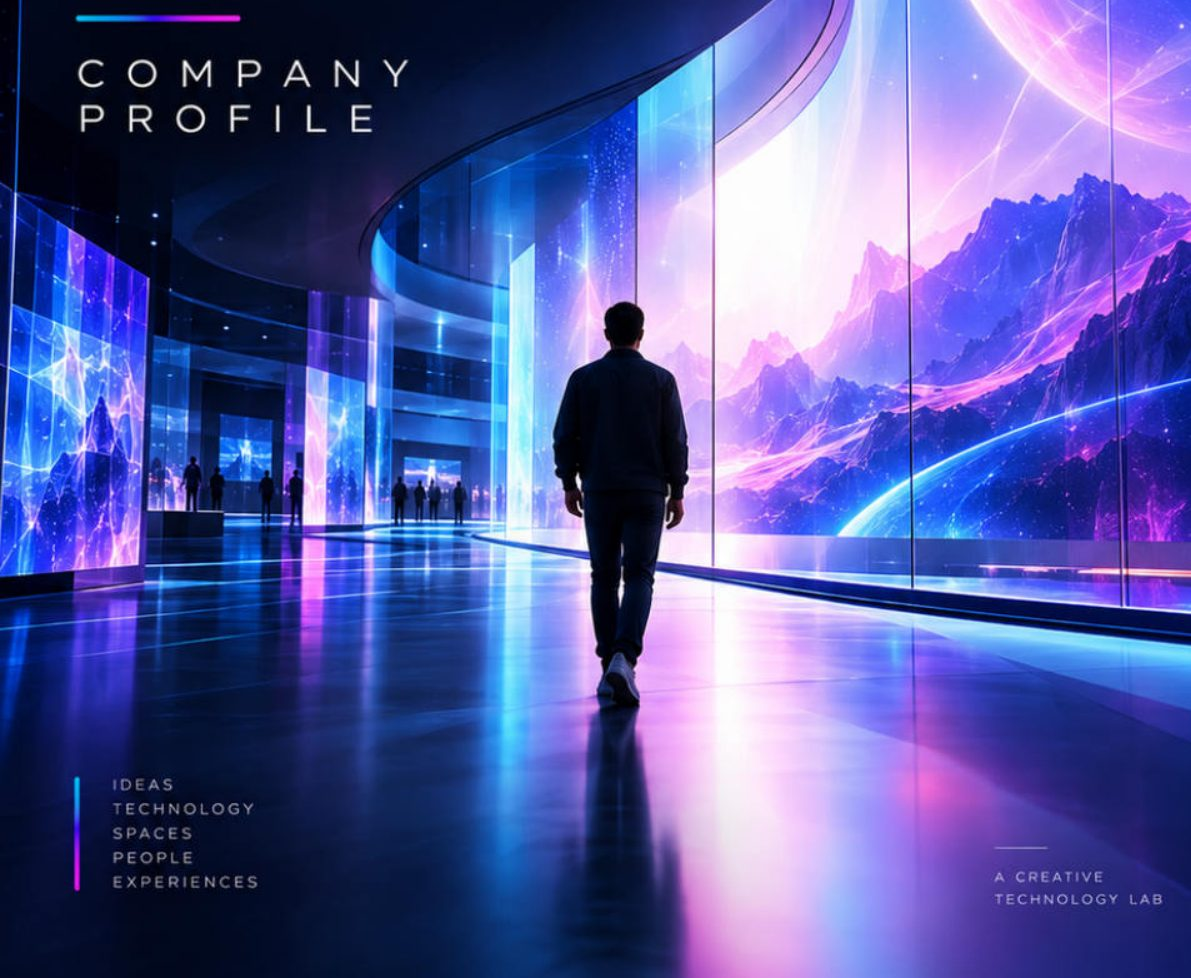
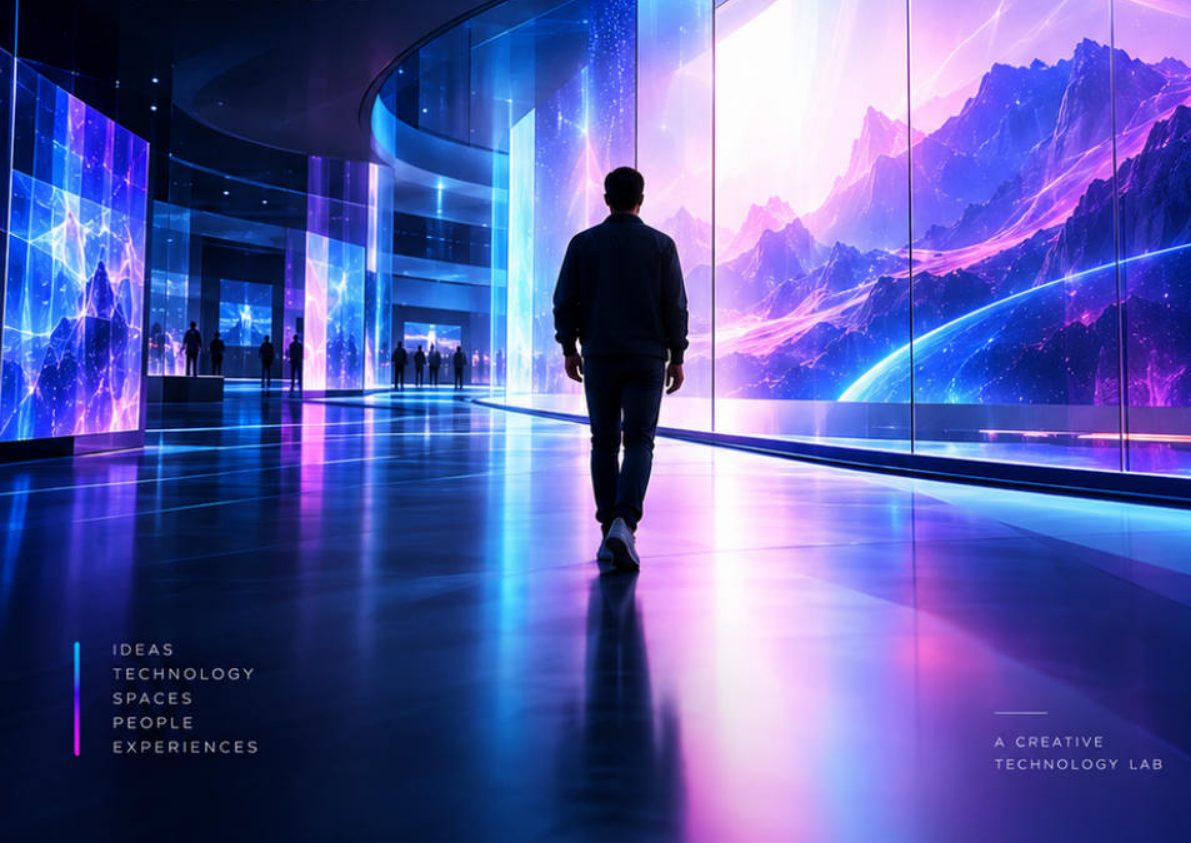
Apply client WhatsApp revisions (roadmap + service lists)

diff --git a/src/data/collection.ts b/src/data/collection.ts
@@ -22,7 +22,7 @@ export const collectionItems: CollectionItem[] = [
     tagline: "Turn any surface into a story.",
     description: "Mengubah ruang, bangunan, object, stage, maupun permukaan apa pun jadi medium visual storytelling yang imersif dan interaktif.",
     icon: "projector",
-    highlights: ["Projection mapping", "Immersive projection", "Interactive projection", "AV performance"],
+    highlights: ["Projection mapping", "Immersive", "Interactive projection", "AV performance"],
   },
   {
     no: "02",
@@ -30,7 +30,7 @@ export const collectionItems: CollectionItem[] = [
     tagline: "More than a screen.",
     description: "Digital signage, interactive kiosk, LED display, hingga Holobox — platform visual yang mengajak audience masuk dan berinteraksi.",
     icon: "monitor",
-    highlights: ["Digital signage", "Interactive kiosk", "LED display", "Holobox"],
+    highlights: ["Digital signage", "Interactive kiosk", "Immersive & interactive display", "LED displays", "Holobox", "Interactive content"],
   },
   {
     no: "03",
@@ -38,7 +38,7 @@ export const collectionItems: CollectionItem[] = [
     tagline: "Don't just watch. Play.",
     description: "Holo-Wall interactive games, gesture-based Holo-X, hingga simulation experience — audience jadi bagian dari pengalamannya.",
     icon: "gamepad",
-    highlights: ["Holo-Wall games", "Holo-X gesture", "Simulation experience"],
+    highlights: ["Holo-wall interactive games", "Holo-x gesture games", "Educational games", "Simulation experiences", "Custom games & activations"],
   },
   {
     no: "04",
@@ -46,7 +46,7 @@ export const collectionItems: CollectionItem[] = [
     tagline: "Intelligence that works with you.",
     description: "Doocoon AI — 3D avatar virtual assistant yang bisa diajak bicara dan merespons langsung, plus AI photobooth untuk momen personal.",
     icon: "bot",
-    highlights: ["3D AI avatar", "AI photobooth", "Agentic AI"],
+    highlights: ["AI photobooth", "Agentic AI admin", "Agentic AI finance", "Agentic AI legal compliance", "Agentic AI marketing", "Agentic AI customer support"],
   },
   {
     no: "05",
@@ -54,30 +54,30 @@ export const collectionItems: CollectionItem[] = [
     tagline: "Step into another reality.",
     description: "VR games dan VR experience dalam virtual environment penuh, untuk entertainment maupun eksplorasi dunia lain.",
     icon: "glasses",
-    highlights: ["VR games", "VR experience", "Virtual environment"],
+    highlights: ["VR games", "VR experience", "VR for education"],
   },
   {
     no: "06",
-    title: "3D Printing & Custom",
+    title: "3D Printing Custom",
     tagline: "From digital idea to physical form.",
     description: "Dari dunia digital kembali ke dunia fisik — custom 3D design yang dicetak jadi karya nyata untuk dibawa pulang.",
     icon: "printer",
-    highlights: ["3D printed object", "Custom design", "Digital fabrication"],
+    highlights: ["Shoes 3D printing", "Action figure", "Custom 3D design"],
   },
   {
     no: "07",
-    title: "Smart Home & Office",
+    title: "Smart Home / Office Solutions",
     tagline: "From smart space to intelligent space.",
     description: "AI avatar sebagai interface rumah dan kantor pintar — dari conventional living menuju connected, intelligent living.",
     icon: "home",
-    highlights: ["Smart home AI avatar", "Smart office AI avatar", "Connected living"],
+    highlights: ["Smart home AI avatar", "Smart office AI avatar"],
   },
   {
     no: "08",
-    title: "DJ / VJ Audio Reactive",
+    title: "DJ / VJ Audio Reactive with Visuals",
     tagline: "See the music. Feel the visual.",
     description: "Musik jadi trigger bagi visual — DJ performance dengan projection, lighting, dan interactive content yang merespons real-time.",
     icon: "disc",
-    highlights: ["DJ performance", "Audio reactive visual", "Live interaction"],
+    highlights: ["DJ music performance", "Audio reactive interactive performance"],
   },
 ];

diff --git a/src/data/journey.ts b/src/data/journey.ts
@@ -1,9 +1,8 @@
 /**
- * The show timeline, matching the Experience Journey on the Hololabs company
- * profile (hololabs-web): six stages, ~90 minutes end to end. Supersedes the
- * earlier 7-step list from the client's WhatsApp revision (7 Oct 2026),
- * whose first step — booking — happens before the show and now lives in
- * the "Alurnya" section instead.
+ * The show roadmap, per the client's WhatsApp "Road map Milestone"
+ * (Badar Spero, Oct 2026): seven stages, 1,5 jam per show. The client gave
+ * no per-stage durations, so `minutes` stays empty and the timeline simply
+ * omits the duration pill.
  */
 export interface JourneyStep {
   title: string;
@@ -14,41 +13,47 @@ export interface JourneyStep {
 
 export const journeySteps: JourneyStep[] = [
   {
-    title: "Enter the Story",
-    subtitle: "Journey of Life — Immersive Video Mapping",
-    minutes: "15",
-    description: "Experience dimulai melalui immersive video mapping yang membawa audience mengikuti sebuah visual story.",
+    title: "Booking seat",
+    subtitle: "Reservasi sebelum datang",
+    minutes: "",
+    description: "Pilih jadwal show, reservasi seat, dan bersiap memasuki Hololabs.",
   },
   {
-    title: "Feel the Beat",
-    subtitle: "Interactive DJ & Audio Reactive Performance",
-    minutes: "15",
-    description: "Musik menjadi trigger bagi visual. Audience tidak hanya menonton, mereka menjadi bagian dari performance.",
+    title: "Nonton video mapping",
+    subtitle: "Journey of Life",
+    minutes: "",
+    description: "Menonton video mapping yang bercerita tentang journey of life — visual, projection, dan audio jadi satu opening experience.",
   },
   {
-    title: "Meet AI",
-    subtitle: "Doocoon AI — 3D Avatar Virtual Assistant",
-    minutes: "15",
-    description: "Pengunjung dapat berbicara langsung dengan 3D Avatar Virtual Assistant yang merespons audience.",
+    title: "Interactive performance",
+    subtitle: "With DJ backsound",
+    minutes: "",
+    description: "Pertunjukan interaktif dengan iringan DJ — audience tidak hanya menonton, mereka jadi bagian dari performance.",
   },
   {
-    title: "Road to Smart Living",
-    subtitle: "Smart Home Technology Experience",
-    minutes: "20",
-    description: "Menjelajahi perkembangan teknologi rumah dari conventional living menuju connected dan intelligent living.",
+    title: "Chit chat dengan AI",
+    subtitle: "3D Avatar Virtual Assistant — Doocoon AI",
+    minutes: "",
+    description: "Ngobrol langsung dengan Doocoon AI, 3D avatar virtual assistant yang bisa berkomunikasi dan merespons audience.",
   },
   {
-    title: "Create Something",
-    subtitle: "Custom 3D Printing Experience",
-    minutes: "15",
-    description: "Dari dunia digital kembali ke dunia fisik. Ide digital berubah menjadi benda nyata.",
+    title: "Road to smart home technology",
+    subtitle: "Smart home experience",
+    minutes: "",
+    description: "Menjelajahi perjalanan teknologi rumah dari conventional living menuju connected dan intelligent living.",
   },
   {
-    title: "Closing",
-    subtitle: "Take the Experience Home",
-    minutes: "10",
-    description: "Go home with a new possibility.",
+    title: "Custom 3D printing",
+    subtitle: "From digital idea to physical form",
+    minutes: "",
+    description: "Dari dunia digital kembali ke dunia fisik — lihat ide jadi benda nyata lewat custom 3D printing.",
+  },
+  {
+    title: "Pulang",
+    subtitle: "Take the experience home",
+    minutes: "",
+    description: "Show selesai — pulang membawa pengalaman 1,5 jam dan kemungkinan baru.",
   },
 ];
 
-export const journeyDurationLabel = "±90 menit per show";
+export const journeyDurationLabel = "1,5 jam per show";

diff --git a/src/lib/cms/schema.ts b/src/lib/cms/schema.ts
@@ -207,7 +207,7 @@ export const defaults = {
     title: "Don't just see the technology.",
     titleAccent: "Step inside it.",
     titleSuffix: "",
-    lead: "Satu Experience Journey, ±90 menit — dari visual storytelling, panggung audio reactive, ngobrol dengan AI avatar, sampai membawa pulang karya 3D cetak sendiri.",
+    lead: "Satu Experience Journey, 1,5 jam — dari video mapping Journey of Life, pertunjukan interaktif dengan DJ, ngobrol dengan AI avatar, sampai custom 3D printing.",
     ctaPrimary: "Reservasi Sekarang",
     ctaSecondary: "Jelajahi Collection",
     stats: [
@@ -227,7 +227,7 @@ export const defaults = {
   collection: {
     eyebrow: "02 · Collection",
     title: "Hasil karya & konten imersif kami",
-    description: "Delapan lini karya Hololabs — masing-masing bisa berdiri sendiri, atau terhubung jadi satu pengalaman utuh.",
+    description: "Storytelling lewat teknologi: delapan lini bisnis jasa Hololabs — masing-masing bisa berdiri sendiri, atau terhubung jadi satu pengalaman utuh.",
     items: collectionItems.map(({ title, tagline, description, highlights }) => ({
       title,
       tagline,
@@ -238,16 +238,16 @@ export const defaults = {
   rundown: {
     eyebrow: "03 · Rundown",
     title: "Satu show,",
-    titleAccent: "enam babak cerita.",
-    description: "Bukan menu — ini alur cerita dan jadwal acara di dalam show, dari masuk sampai pulang membawa karya sendiri.",
+    titleAccent: "tujuh babak cerita.",
+    description: "Bukan menu — ini alur cerita dan jadwal acara di dalam show, dari booking seat sampai pulang.",
     durationLabel: journeyDurationLabel,
-    tagline: "exploring what technology can become.",
+    tagline: "1,5 jam exploring what technology can become.",
     steps: journeySteps.map((step) => ({ ...step })),
   },
   schedule: {
     eyebrow: "Jadwal",
     title: "Pilih tanggal & show",
-    description: "Satu show berdurasi ±90 menit. Sisa kursi tiap show dihitung langsung dari sistem.",
+    description: "Satu show berdurasi 1,5 jam. Sisa kursi tiap show dihitung langsung dari sistem.",
     cta: "Lihat kursi",
   },
   ourStory: {

diff --git a/src/components/home/rundown-section.tsx b/src/components/home/rundown-section.tsx
@@ -40,14 +40,12 @@ export async function RundownSection() {
           }
         />
 
-        {total > 0 ? (
-          <Reveal variant="blur" delay={120}>
-            <p className="mt-10 font-display text-2xl font-extrabold text-ink sm:text-3xl">
-              <span className="tabular-nums">{total}</span> menit{" "}
-              <span className="text-gradient">{rundown.tagline}</span>
-            </p>
-          </Reveal>
-        ) : null}
+        <Reveal variant="blur" delay={120}>
+          <p className="mt-10 font-display text-2xl font-extrabold text-ink sm:text-3xl">
+            {total > 0 ? <span className="tabular-nums">{total} menit </span> : null}
+            <span className="text-gradient">{rundown.tagline}</span>
+          </p>
+        </Reveal>
 
         <JourneyTimeline steps={rundown.steps} />
       </Container>
